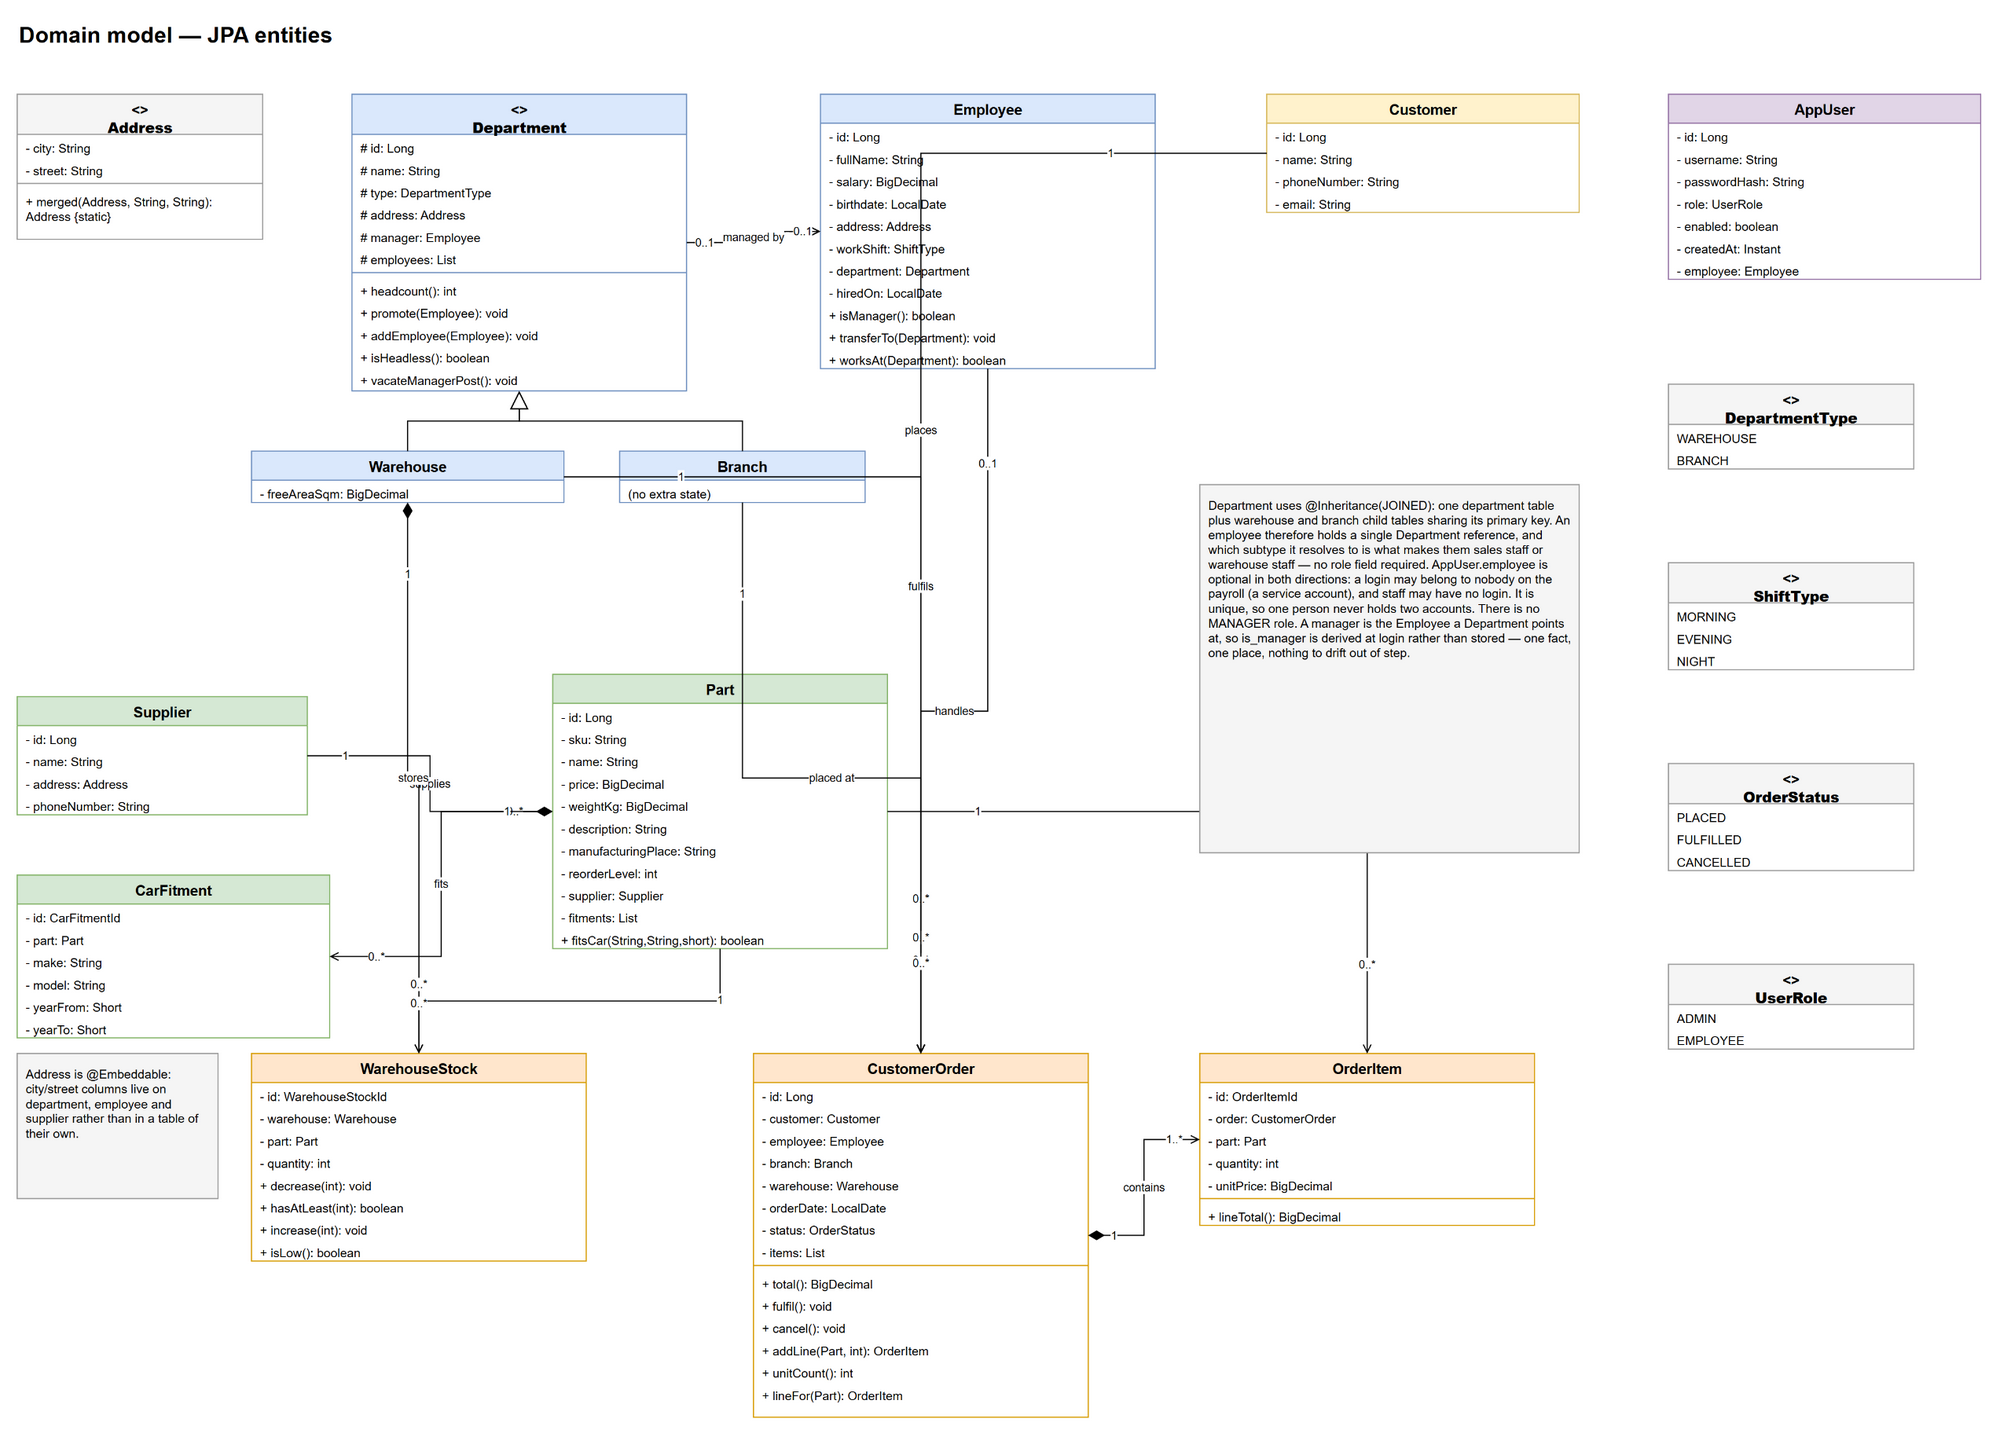
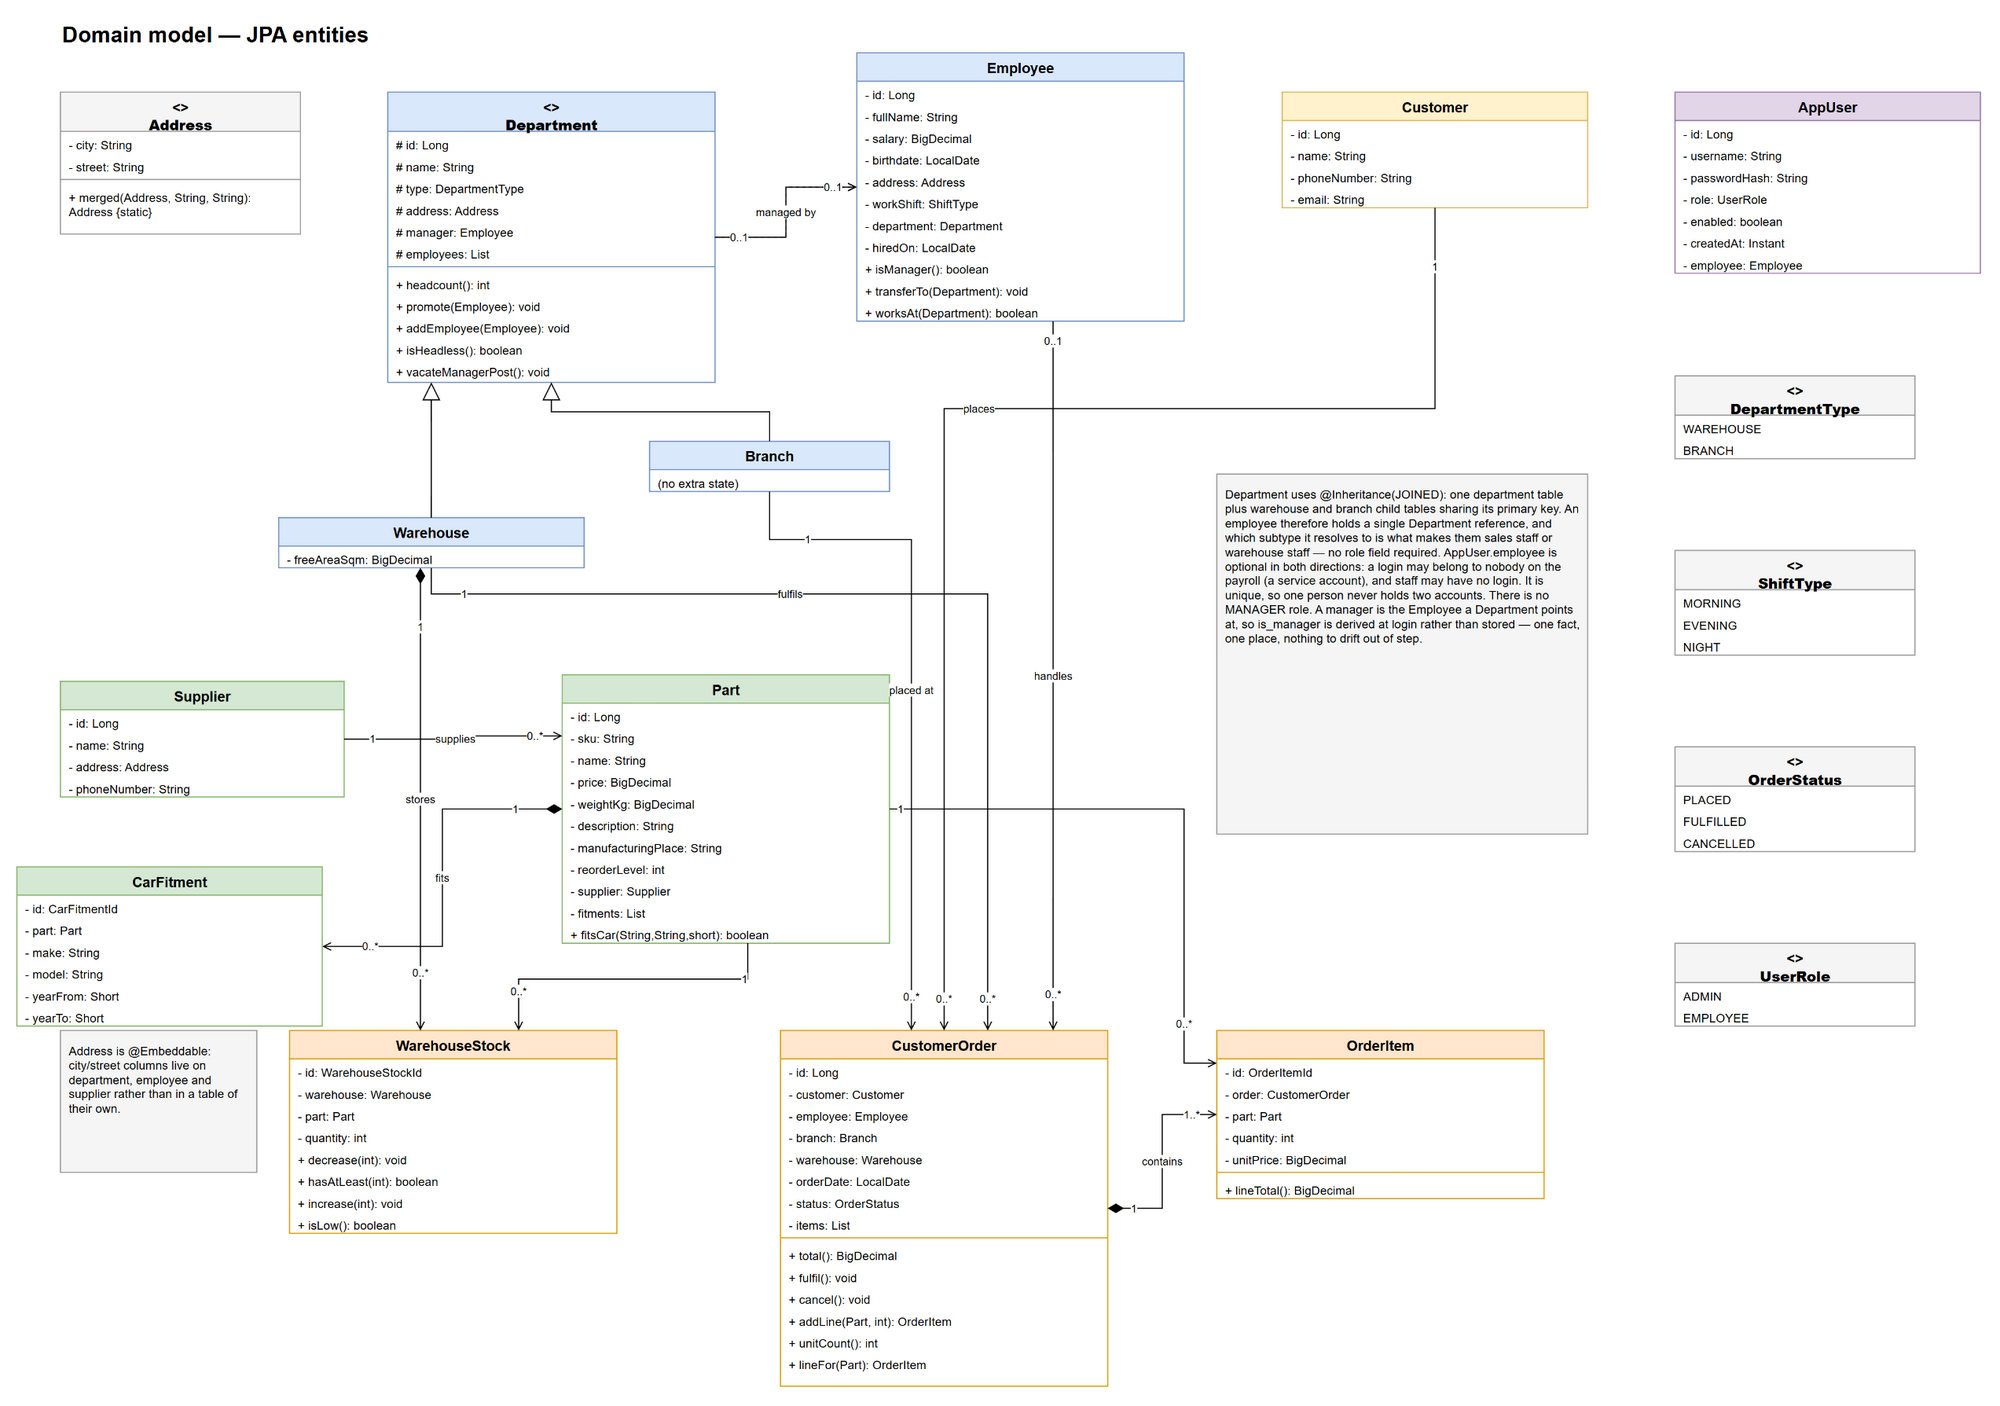
Quote one test count, and name the table columns
The README gave two different figures for the same suite: 260 in the badge and
in the setup steps, 210 in the status table and the layout tree. Both are true
— 260 is what Maven and CI report, 210 is the number of methods in the source,
and the gap is the parameterised tests running once per case. Presented without
that explanation it just reads as one of them being wrong.

The README now quotes 260 throughout, since that is the number anybody running
the suite or reading CI actually sees. docs/testing.md keeps both and explains
the difference in two sentences, because that is the one place the distinction
is worth having. Checked against the build rather than carried over: 260 runs
from 210 methods, and EntityIdentityTest really is 8 methods over 11 entities
reported as 58.

Four tables had an empty header row, which renders as a blank strip above the
first line. Given real column names: Component/State, Document/Covers,
What you get/Detail, and Who/Means in the API reference.

The class diagram PNG is re-exported from the updated source.

diff --git a/README.md b/README.md
@@ -18,7 +18,7 @@ Spring Security with JWT · springdoc-openapi · Maven
 Complete and runnable. Clone it, point it at a PostgreSQL database, and you have a working
 shop with staff, stock and orders to explore — see [Running it](#running-it).
 
-| | |
+| Component | State |
 |---|---|
 | Schema — 12 tables, 6 views, 6 triggers, Flyway V1–V6 | done |
 | Deterministic demo dataset | done |
@@ -27,7 +27,7 @@ shop with staff, stock and orders to explore — see [Running it](#running-it).
 | REST API — 48 endpoints, DTOs, RFC 7807 errors, OpenAPI | done |
 | JWT security — login, roles, per-department manager rule | done |
 | Invoice PDF | done |
-| Test suite — 210 tests, 96% instructions / 90% branches | done |
+| Test suite — 260 tests, 96% instructions / 90% branches | done |
 | CI — GitHub Actions on every push and pull request | done |
 | Documentation | done |
 
@@ -38,7 +38,7 @@ not H2. A full CI run takes about a minute.
 
 ## Documentation
 
-| | |
+| Document | Covers |
 |---|---|
 | [docs/architecture.md](docs/architecture.md) | the system — layers, security, errors, known gaps |
 | [docs/api.md](docs/api.md) | every endpoint, its parameters, and who may call it |
@@ -188,7 +188,7 @@ src/main/resources/db/migration/
   V5__auth.sql                     login accounts
   V6__seed_demo_data.sql           demo dataset
 
-src/test/java/com/carparts/        210 tests against a real PostgreSQL
+src/test/java/com/carparts/        260 tests against a real PostgreSQL
 ```
 
 ---
@@ -198,7 +198,7 @@ src/test/java/com/carparts/        210 tests against a real PostgreSQL
 The project ships with a complete working dataset, so it does something interesting the moment
 it starts. Following [Running it](#running-it) gives you a shop with:
 
-| | |
+| What you get | Detail |
 |---|---|
 | 4 departments | 2 branches and 2 warehouses |
 | 8 staff | across both branches and both warehouses, some managing a department |

diff --git a/docs/testing.md b/docs/testing.md
@@ -1,8 +1,12 @@
 # Testing
 
-210 test methods, 260 executions, 96% instruction and 90% branch coverage. Every test runs
-against a real PostgreSQL 16 with the real migrations applied. There are no mocks of the
-database and no H2.
+**260 tests, 96% instruction and 90% branch coverage.** Every test runs against a real
+PostgreSQL 16 with the real migrations applied. There are no mocks of the database and no H2.
+
+That 260 is what Maven and CI report. It comes from **210 test methods** in the source: the
+difference is the parameterised ones, which run once per case — `EntityIdentityTest` alone is
+8 methods across 11 entities, which the runner reports as 58. Both numbers are true, and 260 is the one quoted elsewhere
+because it is what you see when you run the suite.
 
 ```bash
 ./mvnw verify          # everything, including the coverage floor

diff --git a/docs/api.md b/docs/api.md
@@ -6,7 +6,7 @@ are open.
 
 **Who** in the tables below:
 
-| | |
+| Who | Means |
 |---|---|
 | staff | any authenticated account — every account belongs to a member of staff |
 | ADMIN | the `ADMIN` role |
